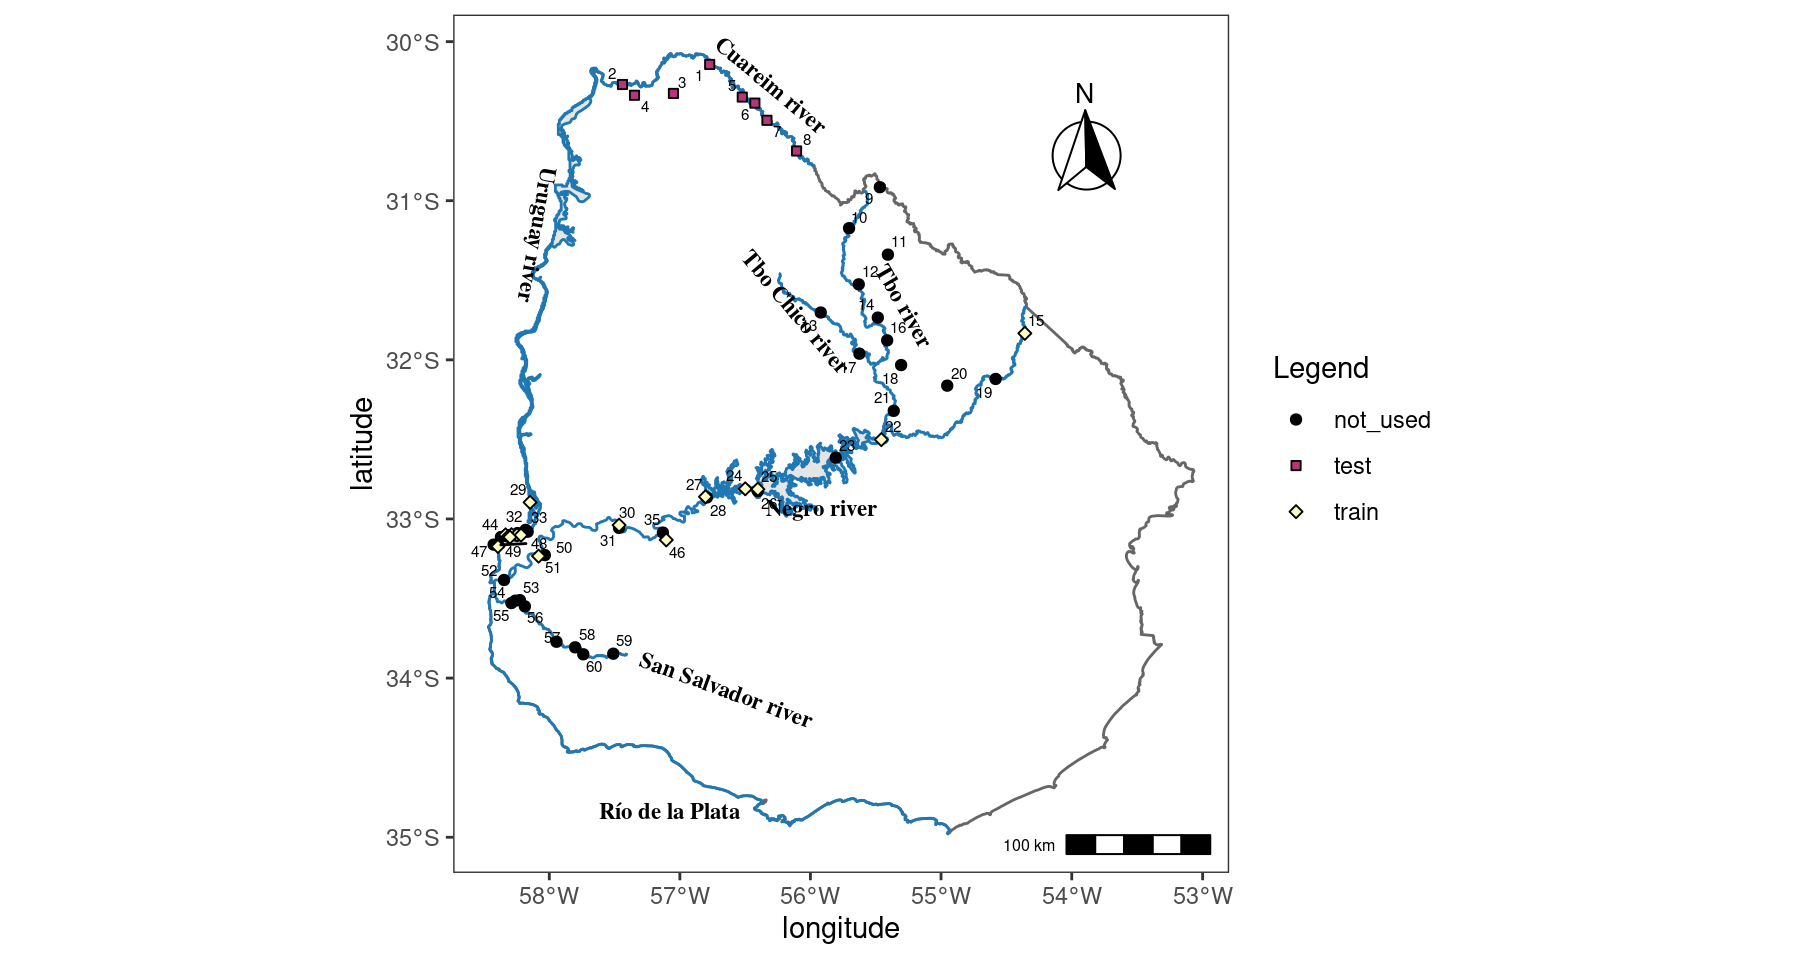
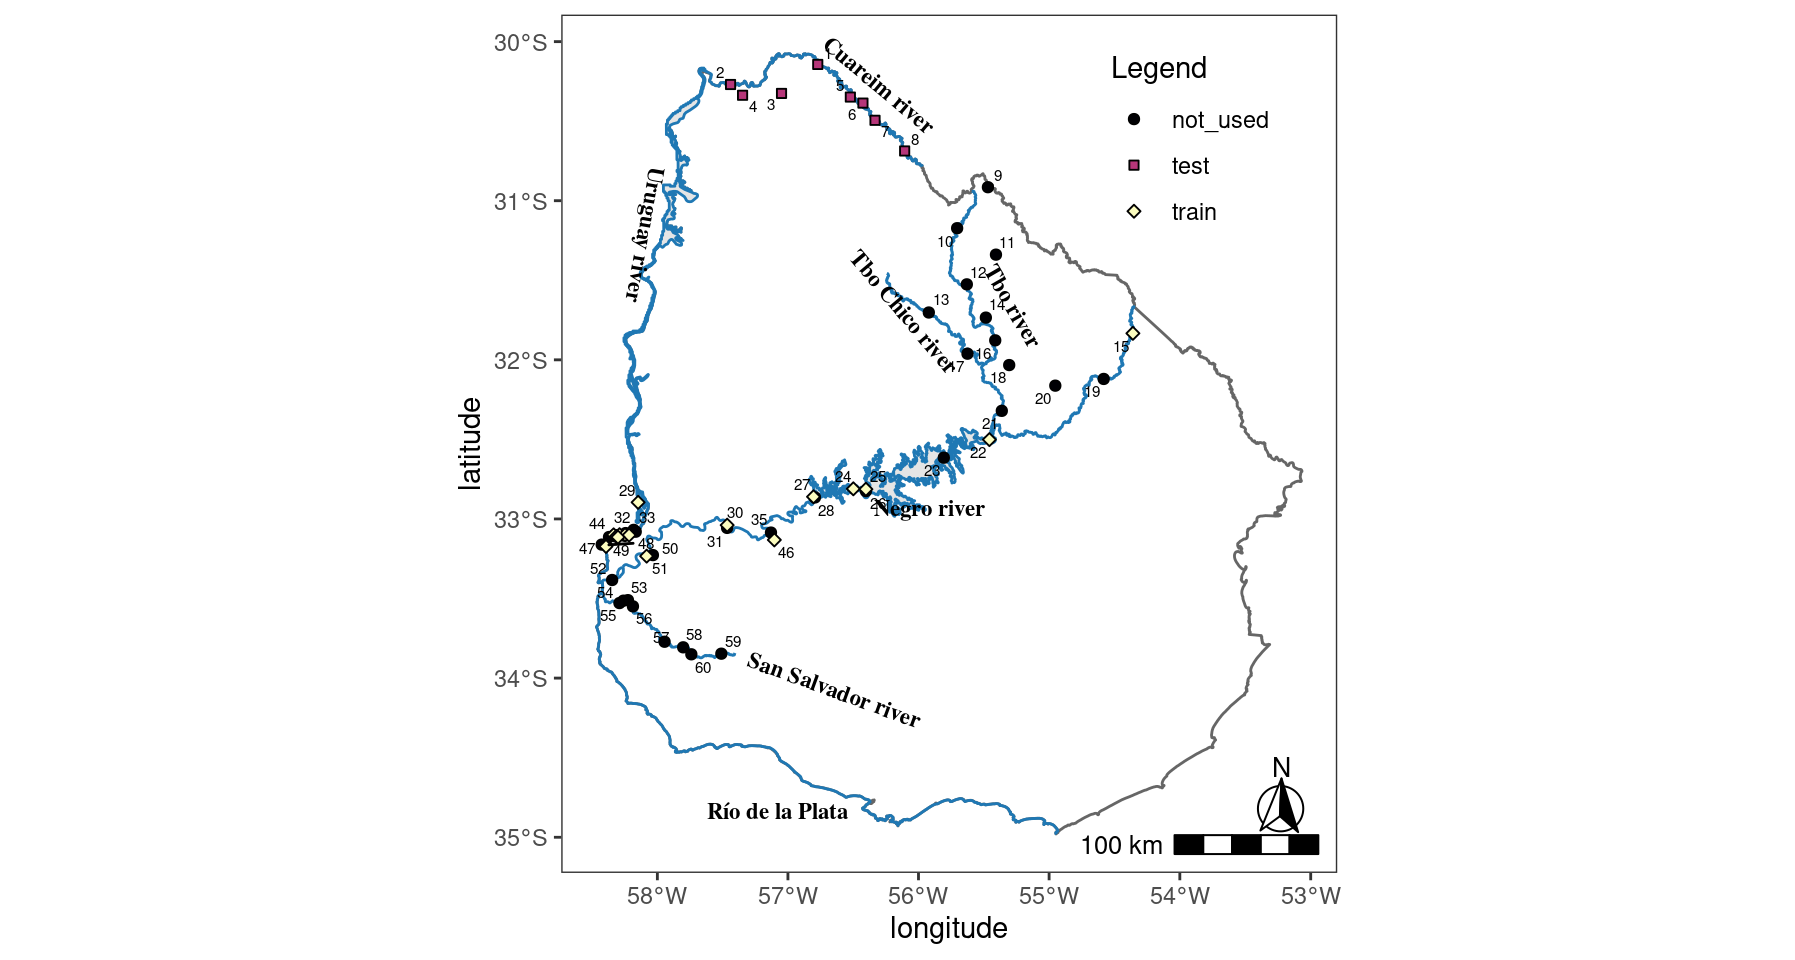
Fixed data type identification (train, test, not used)

diff --git a/6.Interactive_code_files/MapofSamplingStations.md b/6.Interactive_code_files/MapofSamplingStations.md
@@ -78,7 +78,7 @@ sites_reply %>%
            Latitude = "latitud",
            Longitude = "longitud",
            `Site Code` = "site_number") %>% 
-    mutate (Basin = ifelse(str_detect(Sampling_Point,c("RC","RU","SSS")), "Uruguay","Negro")) %>% 
+    mutate (Basin = ifelse(str_detect(Sampling_Point,c("RC|RU|SSS")), "Uruguay","Negro")) %>% 
      full_join(sites_oan_data, by = "Sampling_Point") %>% 
       dplyr::select(Basin,Sampling_Point,Latitude,Longitude,type,N_Station,Start_Date,End_Date, `Site Code`) %>% 
   kable()
@@ -87,13 +87,13 @@ sites_reply %>%
 | Basin   | Sampling\_Point | Latitude   | Longitude  | type      | N\_Station | Start\_Date | End\_Date  | Site Code |
 |:--------|:----------------|:-----------|:-----------|:----------|-----------:|:------------|:-----------|----------:|
 | Uruguay | RC50            | -30.153338 | -56.784112 | test      |         31 | 2012-07-24  | 2018-07-31 |         1 |
-| Negro   | RC60            | -30.27903  | -57.41578  | test      |         39 | 2008-01-08  | 2017-08-01 |         2 |
-| Negro   | RC3C70          | -30.335783 | -57.046419 | test      |         24 | 2014-03-11  | 2018-07-31 |         3 |
+| Uruguay | RC60            | -30.27903  | -57.41578  | test      |         39 | 2008-01-08  | 2017-08-01 |         2 |
+| Uruguay | RC3C70          | -30.335783 | -57.046419 | test      |         24 | 2014-03-11  | 2018-07-31 |         3 |
 | Uruguay | RCYU80          | -30.347013 | -57.328938 | test      |         23 | 2014-03-11  | 2018-07-31 |         4 |
-| Negro   | RC40            | -30.357963 | -56.547252 | test      |         49 | 2008-01-09  | 2018-07-31 |         5 |
-| Negro   | RC35            | -30.395397 | -56.455783 | test      |         49 | 2008-01-09  | 2018-08-02 |         6 |
+| Uruguay | RC40            | -30.357963 | -56.547252 | test      |         49 | 2008-01-09  | 2018-07-31 |         5 |
+| Uruguay | RC35            | -30.395397 | -56.455783 | test      |         49 | 2008-01-09  | 2018-08-02 |         6 |
 | Uruguay | RC20            | -30.503327 | -56.367441 | test      |         41 | 2009-05-05  | 2018-08-01 |         7 |
-| Negro   | RC10            | -30.694941 | -56.150588 | test      |         29 | 2012-07-25  | 2018-08-01 |         8 |
+| Uruguay | RC10            | -30.694941 | -56.150588 | test      |         29 | 2012-07-25  | 2018-08-01 |         8 |
 | Negro   | CU1             | -30.917365 | -55.541327 | not\_used |          7 | 2017-02-08  | 2018-08-21 |         9 |
 | Negro   | TG1             | -31.177506 | -55.762436 | not\_used |          1 | 2018-08-21  | 2018-08-21 |        10 |
 | Negro   | CU2             | -31.340686 | -55.475883 | not\_used |          1 | 2018-08-21  | 2018-08-21 |        11 |
@@ -118,23 +118,23 @@ sites_reply %>%
 | Negro   | RN14            | -33.049706 | -57.453616 | train     |         31 | 2009-06-02  | 2018-10-02 |        30 |
 | Negro   | RN13            | -33.066936 | -57.45417  | not\_used |         31 | 2009-06-02  | 2018-10-02 |        31 |
 | Uruguay | RU1             | -33.074944 | -58.151806 | not\_used |         22 | 2014-07-22  | 2018-09-04 |        32 |
-| Negro   | RU2             | -33.086556 | -58.136611 | not\_used |         22 | 2014-07-22  | 2018-09-04 |        33 |
-| Negro   | RU4             | -33.0945   | -58.211889 | not\_used |         21 | 2014-07-22  | 2018-09-04 |        34 |
+| Uruguay | RU2             | -33.086556 | -58.136611 | not\_used |         22 | 2014-07-22  | 2018-09-04 |        33 |
+| Uruguay | RU4             | -33.0945   | -58.211889 | not\_used |         21 | 2014-07-22  | 2018-09-04 |        34 |
 | Negro   | RN11            | -33.097219 | -57.126662 | not\_used |         31 | 2009-06-02  | 2018-10-02 |        35 |
-| Negro   | RU7             | -33.104111 | -58.25775  | train     |         22 | 2014-07-22  | 2018-09-04 |        36 |
-| Negro   | RU12            | -33.104667 | -58.301994 | train     |         22 | 2014-07-23  | 2018-09-05 |        37 |
+| Uruguay | RU7             | -33.104111 | -58.25775  | train     |         22 | 2014-07-22  | 2018-09-04 |        36 |
+| Uruguay | RU12            | -33.104667 | -58.301994 | train     |         22 | 2014-07-23  | 2018-09-05 |        37 |
 | Uruguay | RU5             | -33.105167 | -58.216583 | train     |         22 | 2014-07-22  | 2018-09-04 |        38 |
-| Negro   | RU11            | -33.106111 | -58.2955   | not\_used |         22 | 2014-07-23  | 2018-09-05 |        39 |
-| Negro   | RU3             | -33.107472 | -58.186444 | train     |         22 | 2014-07-22  | 2018-09-04 |        40 |
+| Uruguay | RU11            | -33.106111 | -58.2955   | not\_used |         22 | 2014-07-23  | 2018-09-05 |        39 |
+| Uruguay | RU3             | -33.107472 | -58.186444 | train     |         22 | 2014-07-22  | 2018-09-04 |        40 |
 | Uruguay | RU8             | -33.109417 | -58.265111 | not\_used |         22 | 2014-07-22  | 2018-09-04 |        41 |
-| Negro   | RU6             | -33.1115   | -58.219361 | not\_used |         22 | 2014-07-22  | 2018-09-04 |        42 |
-| Negro   | RU10            | -33.1155   | -58.282139 | train     |         22 | 2014-07-23  | 2018-09-05 |        43 |
+| Uruguay | RU6             | -33.1115   | -58.219361 | not\_used |         22 | 2014-07-22  | 2018-09-04 |        42 |
+| Uruguay | RU10            | -33.1155   | -58.282139 | train     |         22 | 2014-07-23  | 2018-09-05 |        43 |
 | Uruguay | RU13            | -33.118056 | -58.3365   | not\_used |         22 | 2014-07-23  | 2018-09-05 |        44 |
-| Negro   | RU9             | -33.119361 | -58.269472 | train     |         22 | 2014-07-23  | 2018-09-05 |        45 |
+| Uruguay | RU9             | -33.119361 | -58.269472 | train     |         22 | 2014-07-23  | 2018-09-05 |        45 |
 | Negro   | RN12            | -33.143322 | -57.101672 | train     |         30 | 2009-09-22  | 2018-10-02 |        46 |
 | Uruguay | RU15            | -33.165111 | -58.391917 | not\_used |         22 | 2014-07-23  | 2018-09-05 |        47 |
-| Negro   | RU16            | -33.168    | -58.358167 | train     |         22 | 2014-07-23  | 2018-09-05 |        48 |
-| Negro   | RU14            | -33.177139 | -58.359972 | train     |         22 | 2014-07-23  | 2018-09-05 |        49 |
+| Uruguay | RU16            | -33.168    | -58.358167 | train     |         22 | 2014-07-23  | 2018-09-05 |        48 |
+| Uruguay | RU14            | -33.177139 | -58.359972 | train     |         22 | 2014-07-23  | 2018-09-05 |        49 |
 | Negro   | RN15            | -33.234717 | -58.009994 | not\_used |         29 | 2009-06-03  | 2018-10-03 |        50 |
 | Negro   | RN16            | -33.240824 | -58.056944 | train     |         30 | 2009-06-03  | 2018-10-03 |        51 |
 | Negro   | RN17            | -33.388324 | -58.317224 | not\_used |         31 | 2009-06-03  | 2018-10-03 |        52 |
@@ -276,15 +276,18 @@ mapa_listo <-  base_map +
   labs (fill = "Legend", shape = "Legend",) +
   annotation_scale(location = "br",
                    width_hint = 0.2,
-                   text_cex = 0.5) +
+                   text_cex = 0.8) +
   annotation_north_arrow(
-    location = "bl",
+    location = "br",
     which_north = "true",
-    pad_x = unit(3, "in"),
-    pad_y = unit(3.5, "in"),
+    height = unit(1, "cm"),
+    width = unit(1, "cm"),
+    pad_y = unit(0.45, "cm"),
     style = north_arrow_fancy_orienteering
   ) +
   labs (x = "longitude", y = "latitude") +
+  theme(legend.position = c(0.81, 0.85),
+        legend.background  = element_blank()) +
   geom_sf_text(
     data = river_labels,
     aes(label = name),
@@ -317,7 +320,7 @@ mapa_listo <-  base_map +
       `San Salvador river` = 340,
       `Tacuarembó river` = 300,
       `Río de la Plata` = 0
-    )
+    ) 
   )
 ```
 
